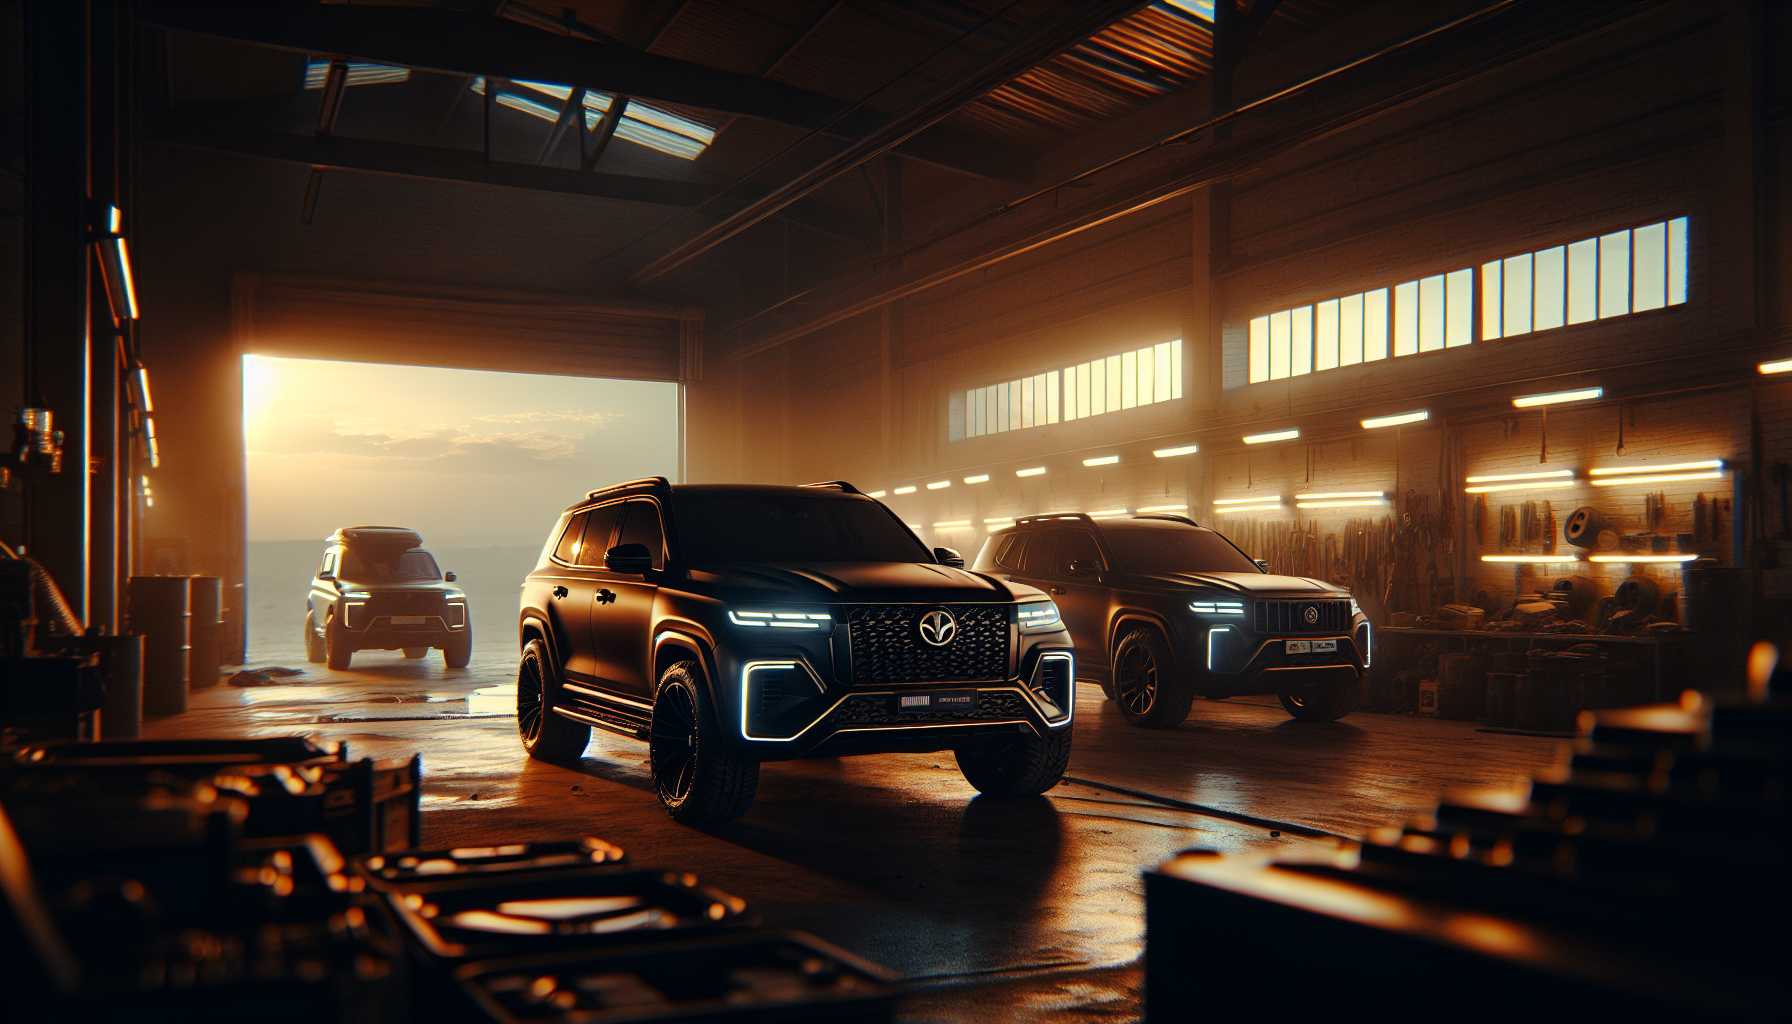
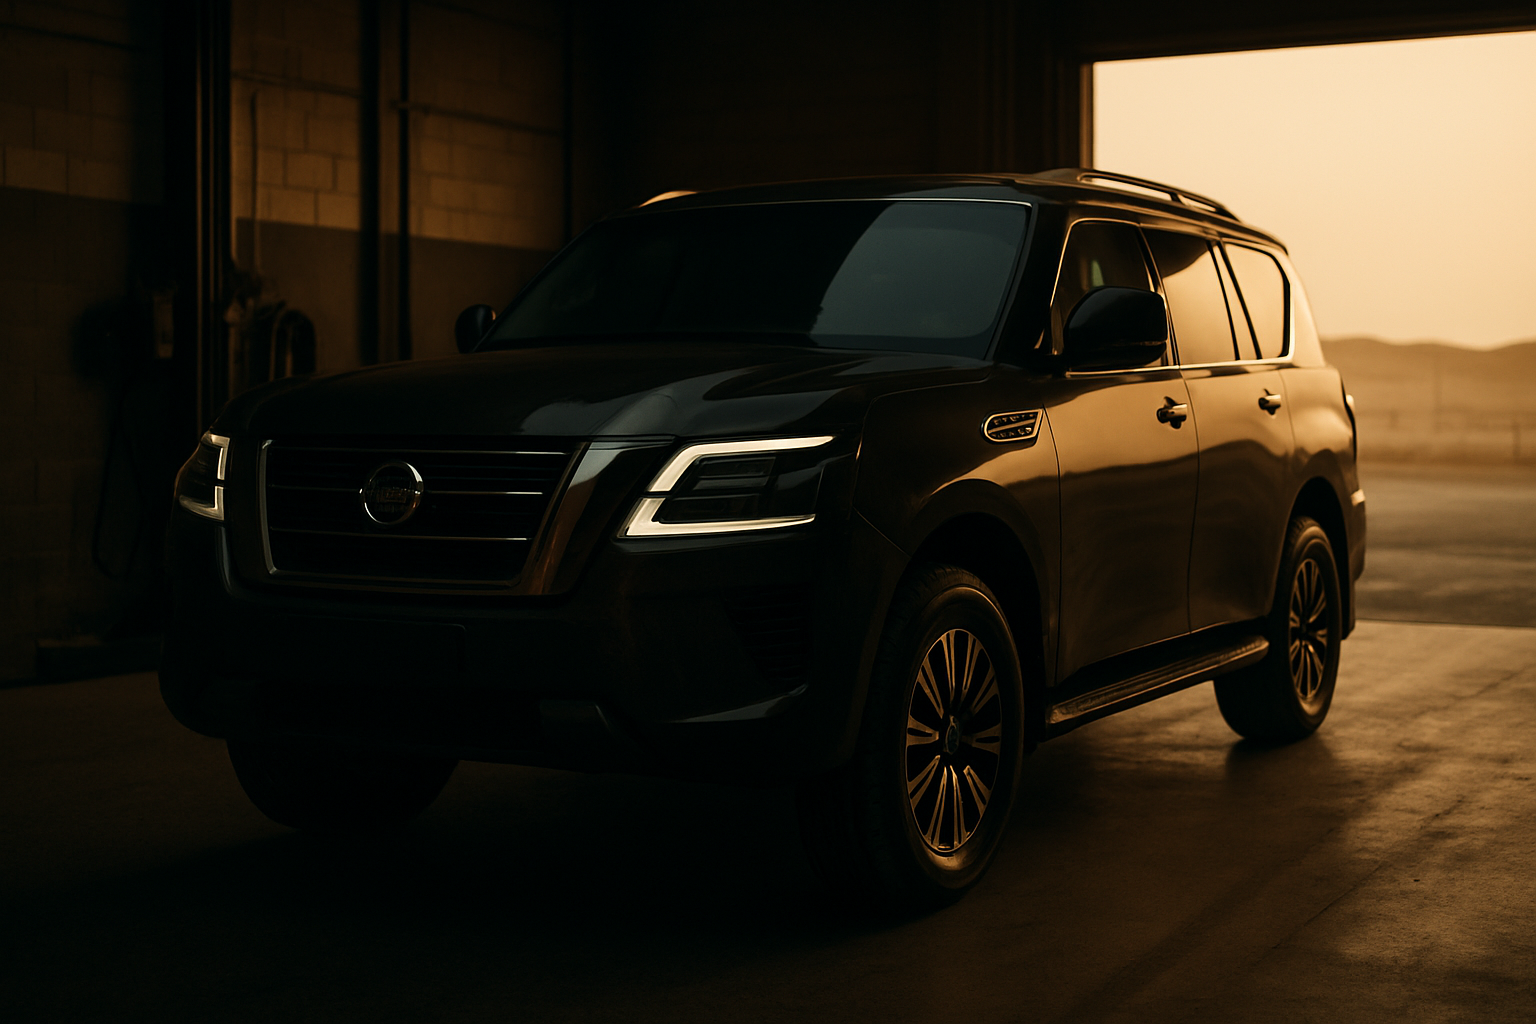
fix(images): regenerate 4 hero images with text-free prompt
Also: add .env.local loader to image_gen.py with fallback to
luni/.env.local so script runs without pre-exported env vars.

Regenerated images (all pass visual inspection — no text):
- nissan-patrol-y62-vs-y63-dubai-comparison: was wrong brand badge
  (non-Nissan emblem + hallucinated license plates)
- nissan-patrol-y61-dubai-complete-guide: was DUBAI wall sign +
  Arabic script + multiple invented workshop signs
- nissan-patrol-differential-repair-cost-uae: was FATKOL badge
- nissan-patrol-service-dubai-complete-guide: was garbled bumper
  nameplate and Arabic-style characters on front

diff --git a/scripts/image_gen.py b/scripts/image_gen.py
@@ -14,10 +14,37 @@ BLOG = ROOT / "blog"
 IMAGES_DIR = ROOT / "images" / "blog"
 IMAGES_DIR.mkdir(parents=True, exist_ok=True)
 
+
+def _load_env_file():
+    """Load .env.local into os.environ. Checks project root first, then Luni shared keys."""
+    candidates = [
+        ROOT / ".env.local",
+        Path(__file__).resolve().parents[2] / "luni" / ".env.local",
+    ]
+    for path in candidates:
+        if path.exists():
+            for line in path.read_text().splitlines():
+                line = line.strip()
+                if not line or line.startswith("#") or "=" not in line:
+                    continue
+                k, v = line.split("=", 1)
+                k = k.strip()
+                v = v.strip().strip('"').strip("'")
+                if k and k not in os.environ:
+                    os.environ[k] = v
+            return str(path)
+    return None
+
+
+_env_source = _load_env_file()
+if _env_source:
+    print(f"[*] Loaded env from {_env_source}")
+
+
 # Hardcoded for Patrol Garage pipeline. Brand profile fetched from Supabase.
 SITE_ID = "03ab1c68-a6ef-48b3-987e-0069c4eb2152"
-SUPABASE_URL = os.environ.get("SUPABASE_URL", "").rstrip("/")
-SUPABASE_KEY = os.environ.get("SUPABASE_SERVICE_KEY", "")
+SUPABASE_URL = os.environ.get("SUPABASE_URL", os.environ.get("NEXT_PUBLIC_SUPABASE_URL", "")).rstrip("/")
+SUPABASE_KEY = os.environ.get("SUPABASE_SERVICE_KEY", os.environ.get("SUPABASE_SERVICE_ROLE_KEY", ""))
 
 # Site-specific subject hints. Without these, brand alone can't tell DALL-E what to render.
 # These describe WHAT the article is about, brand profile describes HOW it should look.